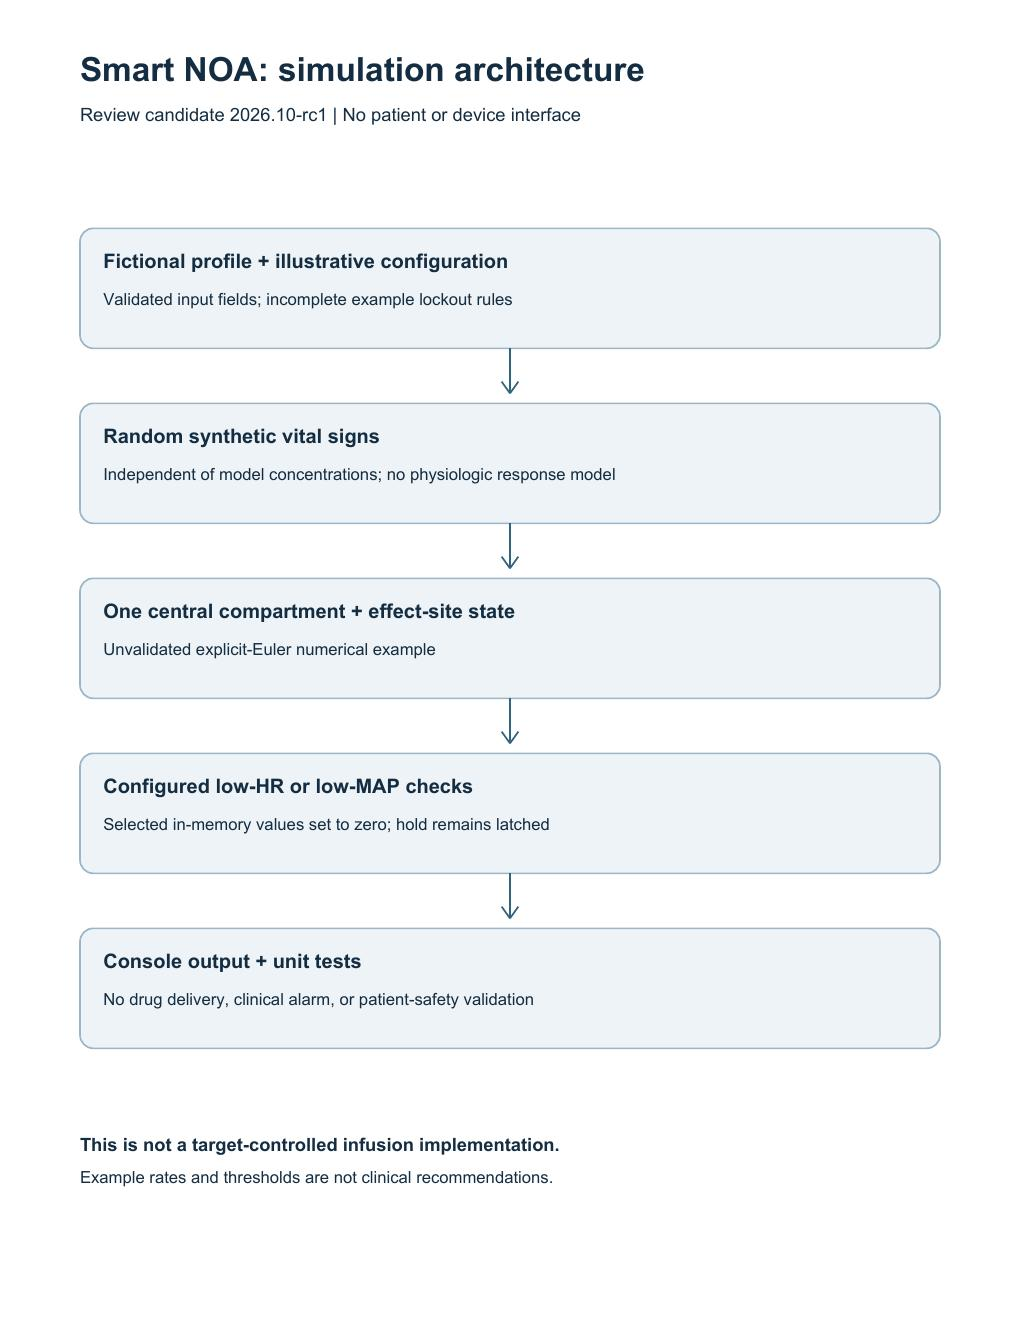
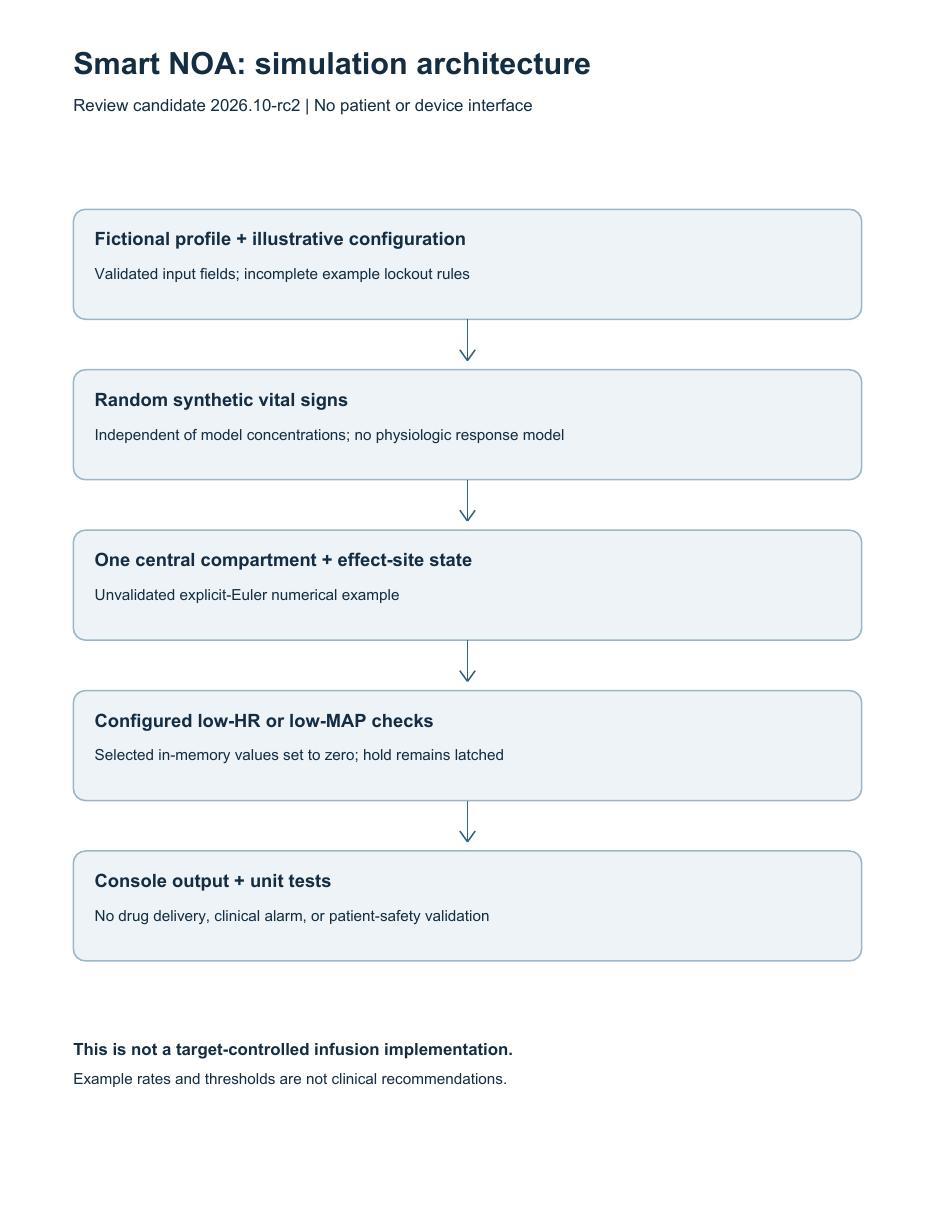
Correct follow-up evidence audit findings and prepare educational rc2

diff --git a/smart_noa_controller.py b/smart_noa_controller.py
@@ -157,7 +157,7 @@ class ConfigLoader:
         return value
 
 
-# --- Core TCI Logic (Pharmacokinetics) ---
+# --- Illustrative Pharmacokinetics ---
 
 class Pharmacokinetics:
     """
@@ -183,13 +183,15 @@ class Pharmacokinetics:
             k1e: Effect-site transfer rate constant in 1/min
         """
         for name, value in (("weight_kg", weight_kg), ("central_vol", central_vol)):
-            if not math.isfinite(value) or value <= 0:
+            if isinstance(value, bool) or not isinstance(value, (int, float)) or not math.isfinite(value) or value <= 0:
                 raise ValueError(f"{name} must be finite and positive")
         for name, value in (("k10", k10), ("k1e", k1e)):
-            if not math.isfinite(value) or value < 0:
+            if isinstance(value, bool) or not isinstance(value, (int, float)) or not math.isfinite(value) or value < 0:
                 raise ValueError(f"{name} must be finite and nonnegative")
         # Vc: Central Compartment Volume (L) - normalized by weight
         self.Vc: float = central_vol * weight_kg
+        if not math.isfinite(self.Vc) or self.Vc <= 0:
+            raise ValueError("Derived central volume must be finite and positive")
         self.k10: float = k10  # Elimination rate constant (1/min)
         self.k1e: float = k1e  # Effect-site transfer rate constant (1/min)
 
@@ -210,39 +212,30 @@ class Pharmacokinetics:
         Returns:
             Tuple of (plasma_concentration, effect_site_concentration) in ng/mL
         """
-        if not math.isfinite(infusion_rate_mcg_per_min) or infusion_rate_mcg_per_min < 0:
+        if isinstance(infusion_rate_mcg_per_min, bool) or not isinstance(infusion_rate_mcg_per_min, (int, float)) or not math.isfinite(infusion_rate_mcg_per_min) or infusion_rate_mcg_per_min < 0:
             raise ValueError("Infusion input must be finite and nonnegative")
-        if not math.isfinite(time_delta_min) or time_delta_min <= 0:
+        if isinstance(time_delta_min, bool) or not isinstance(time_delta_min, (int, float)) or not math.isfinite(time_delta_min) or time_delta_min <= 0:
             raise ValueError("Time step must be finite and positive")
         if max(self.k10, self.k1e) * time_delta_min > 1:
             raise ValueError("Time step exceeds this explicit Euler model stability bound")
-        # 1 mcg/L equals 1 ng/mL.
-        # --- 1. Plasma (Cp) Update ---
-        # Mass of drug infused over the time period
-        infusion_mass_mcg = infusion_rate_mcg_per_min * time_delta_min
+        # 1 mcg/L equals 1 ng/mL. Compute into local candidates so invalid
+        # arithmetic cannot partially mutate the model.
+        for value in (self.Cp, self.Ce):
+            if isinstance(value, bool) or not isinstance(value, (int, float)) or not math.isfinite(value) or value < 0:
+                raise ValueError("Model state must be finite and nonnegative")
+        try:
+            infusion_mass = infusion_rate_mcg_per_min * time_delta_min
+            elimination_mass = self.Cp * self.k10 * self.Vc * time_delta_min
+            new_mass = self.Cp * self.Vc + infusion_mass - elimination_mass
+            cp_candidate = max(0.0, new_mass / self.Vc)
+            # Sequential first-order update: the effect-site step uses new Cp.
+            ce_candidate = self.Ce + self.k1e * (cp_candidate - self.Ce) * time_delta_min
+        except (OverflowError, ZeroDivisionError) as error:
+            raise ValueError("Model arithmetic exceeded the finite input domain") from error
+        if not all(math.isfinite(value) for value in (infusion_mass, elimination_mass, new_mass, cp_candidate, ce_candidate)):
+            raise ValueError("Model arithmetic exceeded the finite input domain")
+        self.Cp, self.Ce = cp_candidate, max(0.0, ce_candidate)
 
-        # Mass of drug eliminated from the central compartment
-        elim_mass_mcg = self.Cp * self.k10 * self.Vc * time_delta_min
-
-        # Calculate new mass and concentration in central compartment
-        mass_change = infusion_mass_mcg - elim_mass_mcg
-        new_mass = (self.Cp * self.Vc) + mass_change
-
-        # Prevent negative concentrations
-        if new_mass < 0:
-            self.Cp = 0.0
-        else:
-            self.Cp = new_mass / self.Vc
-
-        # --- 2. Effect-Site (Ce) Update ---
-        # Rate of change in Ce is proportional to the concentration gradient (Cp - Ce)
-        dCe_dt = self.k1e * (self.Cp - self.Ce)
-        self.Ce += dCe_dt * time_delta_min
-        
-        # Ce must also not be negative
-        if self.Ce < 0:
-            self.Ce = 0.0
-        
         return (self.Cp, self.Ce)
 
 
@@ -349,14 +342,14 @@ class SmartNOAController:
         if drug in self.hard_lockouts:
             reason = { 
                 "Dexmedetomidine": "Configured cardiac-condition example; incomplete clinical assessment",
-                "Ketorolac": "Severe renal impairment (eGFR < 30) or known allergy"
+                "Ketorolac": "Configured renal-threshold or allergy example; incomplete clinical assessment"
             }.get(drug, "Profile-specific contraindication")
             return False, f"HARD LOCK: {reason}"
 
         # Soft Ceiling (Warning — in a real system, licensed clinician override would be possible)
         age_threshold = self.config.get('age_adjustments', 'geriatric', 'age_threshold')
         if drug == "Dexmedetomidine" and self.patient.age > age_threshold:
-            return True, f"SOFT WARNING: Geriatric patient (>{age_threshold}yo). Suggest 50% max dose reduction."
+            return True, f"SOFT WARNING: Geriatric patient (>{age_threshold}yo). Illustrative age-adjusted configuration applies; no clinical dose recommendation."
 
         return True, "No configured lockout triggered; clinical safety is unassessed"
 
@@ -379,7 +372,7 @@ class SmartNOAController:
             "Dexmedetomidine": dex_config['standard_dose']
         }
 
-        # Apply calculated constraints from the NOA Master Protocol
+        # Apply configured simulation constraints
         if "Dexmedetomidine" in self.hard_lockouts:
             rates["Dexmedetomidine"] = 0.0
         elif self.patient.age > dex_config['geriatric_age_threshold']:
@@ -409,6 +402,8 @@ class SmartNOAController:
         Returns:
             Infusion rate in mcg/min
         """
+        if drug != "Dexmedetomidine":
+            raise ValueError("This conversion is implemented only for the dexmedetomidine simulation")
         rate_mcg_per_hour = self.infusions.get(drug, 0.0)
         # Assuming the rate is in mcg/kg/h
         rate_mcg_per_min = (rate_mcg_per_hour * self.patient.weight_kg) / 60.0
@@ -422,6 +417,8 @@ class SmartNOAController:
         Args:
             duration_sec: Duration of monitoring simulation in seconds
         """
+        if isinstance(duration_sec, bool) or not isinstance(duration_sec, int) or duration_sec < 0:
+            raise ValueError("Simulation duration must be a nonnegative integer")
         print("\n=== Smart NOA educational simulation (unvalidated model) ===")
         print("Monitoring Dexmedetomidine Concentration and Hemodynamics.")
         
@@ -453,7 +450,7 @@ class SmartNOAController:
                 print(f"T+{t:2d}s | HR {hr} | Ce: {dex_ce:.2f} → SIMULATED LOW HR → DEX VALUE SET TO ZERO")
             
             # Interlock B: Critical Hypotension
-            elif map_val < map_threshold:
+            if map_val < map_threshold:
                 self.hold_latched = True
                 for drug in ["Dexmedetomidine", "Lidocaine"]:
                     self.infusions[drug] = 0.0
@@ -461,10 +458,10 @@ class SmartNOAController:
                 print(f"T+{t:2d}s | MAP {map_val} | Ce: {dex_ce:.2f} → HYPOTENSION → PAUSING KEY INFUSIONS")
             
             # A latched hold persists; there is no automatic restart policy.
-            elif self.hold_latched:
+            elif self.hold_latched and hr >= hr_threshold:
                 self.status = "HOLD"
                 print(f"T+{t:2d}s | SIMULATION HOLD remains latched; no automatic restart.")
-            else:
+            elif not self.hold_latched:
                 self.status = "GREEN"
                 print(f"T+{t:2d}s | HR {hr} | MAP {map_val} | Model Ce: {dex_ce:.2f} | No configured alert.")
 

diff --git a/test_revision_regressions.py b/test_revision_regressions.py
@@ -80,5 +80,36 @@ class RevisionRegressionTests(unittest.TestCase):
         for drug in c.infusions:
             self.assertEqual(rates[drug], 0)
 
+    def test_simultaneous_low_hr_does_not_mask_low_pressure(self):
+        c = self.controller()
+        with patch('smart_noa_controller.random.randint', side_effect=[40, 50]), patch('smart_noa_controller.time.sleep'), contextlib.redirect_stdout(io.StringIO()):
+            c.monitor_and_control(1)
+        self.assertTrue(c.hold_latched)
+        self.assertEqual(c.status, 'RED')
+        self.assertEqual(c.infusions['Dexmedetomidine'], 0)
+        self.assertEqual(c.infusions['Lidocaine'], 0)
+
+    def test_overflow_rejected_without_partial_state_update(self):
+        model = Pharmacokinetics(10, 2, 0, 0)
+        model.update_concentration(5, 1)
+        before = (model.Cp, model.Ce)
+        with self.assertRaises(ValueError):
+            model.update_concentration(1e308, 10)
+        self.assertEqual((model.Cp, model.Ce), before)
+
+    def test_derived_volume_and_boolean_model_inputs_rejected(self):
+        for values in ((1e308, 1e308, 0, 0), (True, 1, 0, 0), (1, 1, True, 0)):
+            with self.subTest(values=values), self.assertRaises(ValueError):
+                Pharmacokinetics(*values)
+
+    def test_rate_conversion_rejects_other_drug_units(self):
+        with self.assertRaises(ValueError):
+            self.controller()._rate_to_mcg_per_min('Ketamine')
+
+    def test_invalid_duration_rejected(self):
+        for duration in (-1, True, 0.5):
+            with self.subTest(duration=duration), self.assertRaises(ValueError):
+                self.controller().monitor_and_control(duration)
+
 if __name__ == '__main__':
     unittest.main()

diff --git a/PUBLICATION_REVIEW.md b/PUBLICATION_REVIEW.md
@@ -1,22 +1,20 @@
-# Publication review — 27 October 2026
+# Follow-up publication review - 27 October 2026
 
-**Status: draft revisions; publication clearance is not established.**
+**Candidate 2026.10-rc2.** This is an educational-source correction pass, not legal certification, clinical validation, peer review or public-release authorization.
 
-- Corrected one-compartment/effect-site description, unassessed-drug handling, invalid model inputs, and automatic restart behavior.
-- 26 software tests pass in Python 3.12.14 using PyYAML 6.0.2; eight regression tests are included.
+## Work completed
 
-## Common release requirements
+- Smart NOA: fixed simultaneous low-heart-rate/low-pressure alert masking and finite-number/state boundary errors. **31 software tests pass**. This does not establish patient safety.
+- ICU: reconstructed all **42 synthetic scenario themes** as physiology/evidence-appraisal exercises and revised study objectives, summaries, terminology and source guide. Unsupported medicine doses, device adjustments, fixed escalation rules and claims of clinical procedural competency are withdrawn.
+- TKA: withdrew unsubstantiated estimated screening counts, JBI/PRISMA-ScR compliance, extraction/grade tables and false source-result pairings. The current series is a selected-source narrative map, with no original pooling or submission-ready claim.
+- Breast review: checked identity metadata for 58 PMID-bearing references and the remaining book; reviewed available abstracts and selected full text. Corrected IV-versus-oral morphine units, nonsignificant-result wording and outdated guideline framing. Search diagnostic responses are archived.
+- Historical NOA PDF: all 37 rendered pages were visually reviewed. No patient identifiers were apparent in that visual pass, but old institutional/clinical-observation framing, unsupported methods, efficacy and dose claims remain in Git history. Those versions are superseded and not clinical evidence.
+- Author provenance statement recorded. Shadowing notes without authorization remain excluded.
 
-1. Review the full Git history, branches, tags, releases, attachments, issue/PR content, and deployed artifacts for sensitive material and stale claims. A ZIP snapshot does not include those surfaces. A partial connector-based history text scan is described below.
-2. Verify provenance, author contributions, third-party copyright permissions, and the actual license scope. Public availability is not permission to republish third-party content.
-3. Obtain appropriate clinical review for any retained clinical claims. Do not label these drafts clinically validated, HIPAA-compliant, legally certified, institutionally endorsed, or safe for patient care.
-4. Reconcile source, citation metadata, figures, PDFs, repository descriptions, and linked sites. The LaTeX bundle remains unavailable. Current PDFs were rebuilt directly from the named Markdown sources using ReportLab, then rendered and checked. This is not a claim that the TeX compiler succeeded.
-5. Make any public-visibility decision only after these specific outstanding items are resolved. No repository visibility change is part of these revisions.
+## Remaining limits
 
-These notes describe a targeted source/software review, not an exhaustive legal opinion or clinical validation.
+The current sources are educational, with narrower claims than the earlier versions. This audit does not replicate every underlying trial, independently verify every third-party full-text assertion, establish all copyright permissions, determine jurisdiction-specific legal duties, or validate software for patient care. External deposits, attachments, deployed copies, unreachable Git objects and the public repositories' full histories have not received exhaustive review.
 
-## Current release-preparation status
+Do not turn a passing software test, a valid DOI, an educational disclaimer or an author provenance statement into a clinical/legal-clearance claim. Private repository visibility remains unchanged. The historical audit and current snapshot checks have different scopes.
 
-Current educational simulation snapshot prepared; partial history text review completed; historical binary and publication-surface review remains.
-
-A partial GitHub connector audit scanned 232 main-branch commits across the four private priority repositories, 223 distinct nonempty trees and 196 unique text blobs, with no matches for the tested credential patterns or selected patient-identifier labels. It did not exhaustively review image-only historical PDF/JPEG content, although all 12 binary objects were retrieved and hash-verified and extracted PDF text was scanned, deployments, external deposits or attachments. Public repositories were not included in this historical scan. This is not full publication clearance. No visibility change or merge has been performed.
+Earlier review notes in Git history describe earlier states. Use the current release notes and manifests to identify this candidate.

diff --git a/PROVENANCE.md b/PROVENANCE.md
@@ -1,0 +1,11 @@
+# Provenance and rights scope
+
+Recorded 27 October 2026.
+
+The author stated that the portfolio material was not created under paid employment, coursework, a laboratory appointment or an institutional IP/confidentiality agreement, and described the background as clinical shadowing only. This is an author statement, not an institutional rights determination. It does not grant rights in third-party material or authorize disclosure of encounter-derived content.
+
+Unauthorized clinical shadowing notes are excluded from the publication candidate. The ICU author separately confirmed that all scenarios are entirely synthetic and independent of real encounters/charts. No claim of clinical experience, institutional authorship, IRB approval or patient-care authorization is created by the synthetic exercises or simulation.
+
+The repository license covers only material the author has authority to license. Cited publications, guidelines, product names, copyrighted instruments and any external assets retain their own rights. External deposits and institution-specific obligations must be assessed separately. No institutional logos, copied society algorithms or patient records are included intentionally in this candidate.
+
+Historical Git versions may contain superseded claims. See PUBLICATION_REVIEW.md and any historical-version notice. No history rewrite or public-visibility change is performed by this revision.

diff --git a/MANUSCRIPT.md b/MANUSCRIPT.md
@@ -45,7 +45,7 @@ Configured low-heart-rate or low-mean-pressure events set selected simulated val
 ## Verification and limitations
 
 
-Software tests exercise sample lockouts, numerical updates, unknown-drug handling, invalid inputs, and latched holds. Passing tests is not clinical validation. No clinical event-prevention rate is reported. Random vital signs are independent of drug concentrations: the model does not simulate a physiologic feedback response.
+31 software tests exercise sample lockouts, numerical updates, unknown-drug handling, invalid inputs, simultaneous alerts, overflow rejection without partial state mutation, unit-conversion boundaries, and latched holds. Passing tests is not clinical validation. No clinical event-prevention rate is reported. Random vital signs are independent of drug concentrations: the model does not simulate a physiologic feedback response.
 
 The program lacks comprehensive input validation, drug interaction modeling, monitoring of actual signals, sensor-failure handling, human-factors evaluation, and a validated alarm architecture. There are no medical-device interfaces. Do not enter real patient information or connect equipment.
 

diff --git a/RELEASE_NOTES.md b/RELEASE_NOTES.md
@@ -1,7 +1,7 @@
-# 2026.10-rc1 — review candidate
+# 2026.10-rc2 - educational review candidate
 
-Prepared 27 October 2026. This is a review candidate, not a public release or clinical validation.
+Revised 27 October 2026 after the rc1 PRs were merged.
 
-Current educational simulation snapshot prepared; partial history text review completed; historical binary and publication-surface review remains.
+This pass corrects newly identified source and software defects and deliberately narrows unsupported clinical/methodological content. Earlier versions remain recoverable in Git history. See PUBLICATION_REVIEW.md for the precise scope and limitations, PROVENANCE.md for author statements, and RELEASE_MANIFEST.json for current-file hashes.
 
-The source snapshot, citation metadata, and rebuilt exports identify this candidate separately from earlier documents. See PUBLICATION_REVIEW.md for unresolved work. No patient-care use, institutional endorsement, peer review, or regulatory clearance is asserted.
+The candidate is not a clinical protocol, validated controller, systematic/scoping review certification, or legal opinion. No repository visibility change is included.

diff --git a/HISTORICAL_VERSION_NOTICE.md b/HISTORICAL_VERSION_NOTICE.md
@@ -1,0 +1,3 @@
+# Historical version notice
+
+The 2026.10-rc2 educational candidate supersedes older protocol, clinical-competence, efficacy and review-method claims where withdrawn in RELEASE_NOTES.md and PUBLICATION_REVIEW.md. Earlier commits remain recoverable for provenance and are not thereby verified. Do not treat historical dose tables, device instructions, figures or statistical claims as validated evidence. No Git history rewrite or visibility change has been performed.
